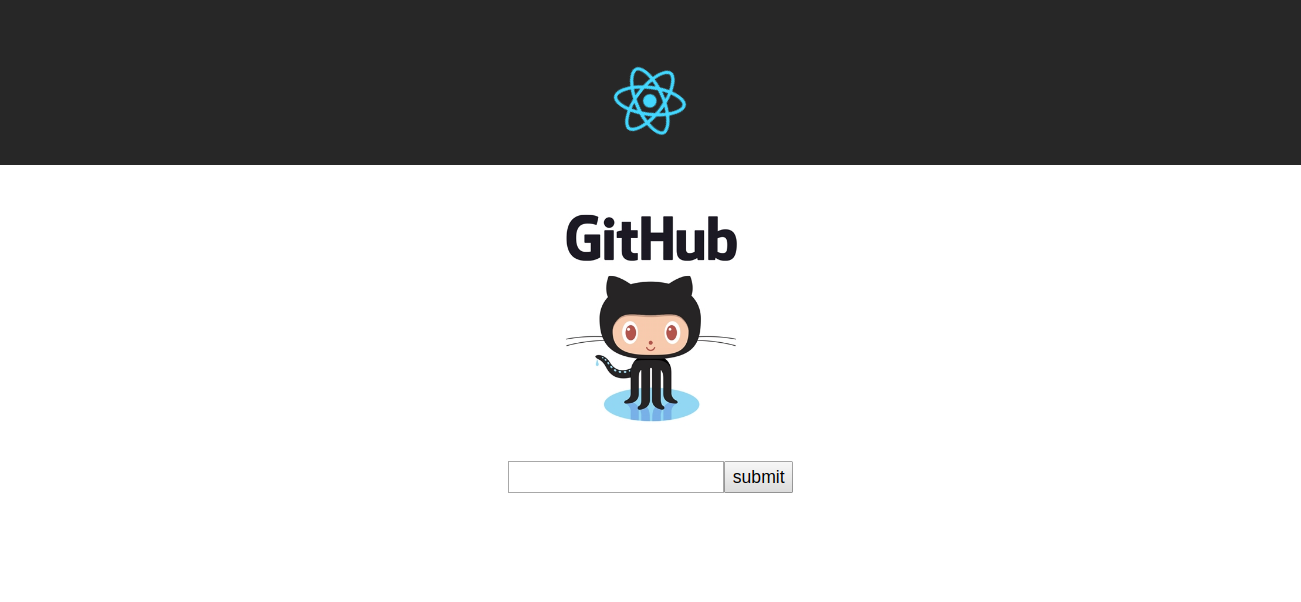
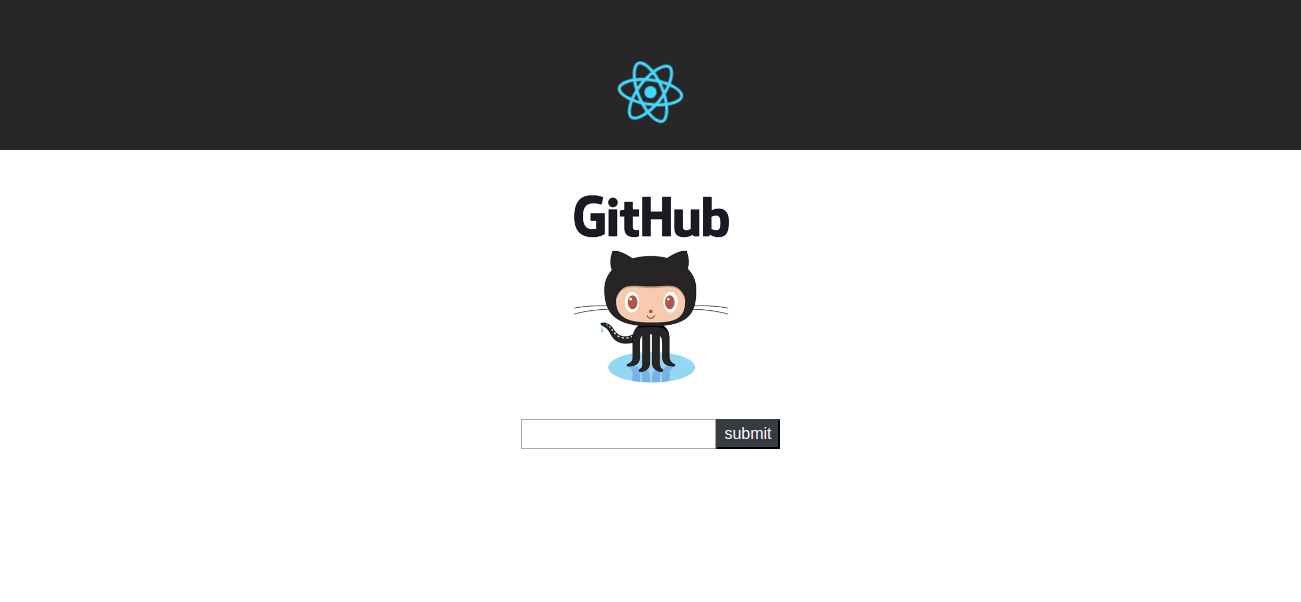
resize pic

Changed region(s): [[0.0, 0.0897, 1.0, 0.299], [0.4304, 0.3289, 0.6149, 0.7475], [0.5534, 0.7774, 0.6149, 0.8372]]

diff --git a/challenges.html b/challenges.html
@@ -49,37 +49,30 @@
   <section>
   <div class="container project-section">
     <div class="width row">
-        <div class="col-md-4  col-sm-6 mb-5">
-            <a href="https://meralle.github.io/countriers/" target="blank">
-                <img src=./img/Superblog.png
-                    class="img-fluid project-item">
-            </a>
-            <span class="project-title">Countries table with googleapisle map</span>
-        </div>
-
-        <div class="col-md-4 col-sm-6">
-            <a href="https://github.com/Meralle/Location-Of-My-Origin">
-                <img  src=./img/todo-list.png
-                      class="img-fluid project-item">
-            </a>
-            <span class="project-title">Todo-List</span>
-        </div>
-
         <div class="col-md-4  col-sm-6">
             <a href="https://github.com/Meralle/superblog" target="blank">
-                <img src=./img/Superblog.png 
+                <img src=./img/superblog.png 
                     class="img-fluid project-item">
             </a>
-            <span class="project-title">Superblog</span>
+            <p class="project-title">Superblog</p>
         </div>
 
         <div class="col-md-4 col-sm-6">
             <a href="https://github.com/Meralle/react_todo_list">
-                <img src=./img/todo-list.png 
+                <img src=./img/todo.png 
                     class="img-fluid project-item">
             </a>
-            <span class="project-title">React-Todo-list</span>
+            <p class="project-title">React-Todo-list</p>
         </div>
+        <div class="col-md-4 col-sm-6">
+            <a href="https://github.com/Meralle/mongokb">
+                <img src=./img/node.png 
+                    class="img-fluid project-item">  
+            </a>
+            <p class="project-title">Node-Login-Form</p>
+        </div>
+         <a >
+              
     
  </div>
 </section><br>

diff --git a/index.html b/index.html
@@ -88,7 +88,7 @@
           <div class="row">
             <div class="col-md-10" data-aos="fade-down">
               <p>
-                  A large part of the course experience is working on and developing projects, as a part of a team, using Github for project management and solving problems together, I always like challenge. I'm very passionate about my new step,Being an artist and developer I want to find ways to combine creativity with technology and always give my best.
+                  A large part of the course experience is working on and developing projects, as a part of a team, using Github for project management and solving problems together, I always like challenge. I'm very passionate about my new step, Being an artist and developer I want to find ways to combine creativity with technology and always give my best.
                </p>  
               </div>
             </div>
@@ -149,9 +149,9 @@
 
         <div class="col-md-4 col-sm-6">
             <a href="./challenges.html"><img src=./img/pro.png 
-                    class="img-fluid project-item">
+                    class="img-fluid project-item">   
             </a>
-            <div class="caption">      
+            <div class="caption">     
                     <a href="./challenges.html"><p class="number"></p>
                     <p class="captiontext">Coding Challenges</p></a>
             </div>       
@@ -276,8 +276,9 @@
                 </div>
                
                 <div class="icon  col-md-1 text-center">
-                  <a href="" target="_blank">
-                    <i class="fa fa-2x fa-facebook" aria-hidden="true"></i>
+                  <a href="https://www.xing.com/profile/Meralle_Halablyan" target="_blank">
+                    <i class="fab fa-2x fa-xing" aria-hidden="true"></i>
+                    
                   </a>
                 </div>
 

diff --git a/style.css b/style.css
@@ -138,11 +138,11 @@ p {
   box-shadow: 0 2px 20px rgba(232,231,233,.45),0 2px 20px rgba(0,0,0,.45);
 }
 
-.aboutme img {
+/*.aboutme img {
 	width:80%;
 	height:auto;
 	border-radius:50% !important;		
-}
+}*/
 
 div i {
 	font-size: 4rem;
